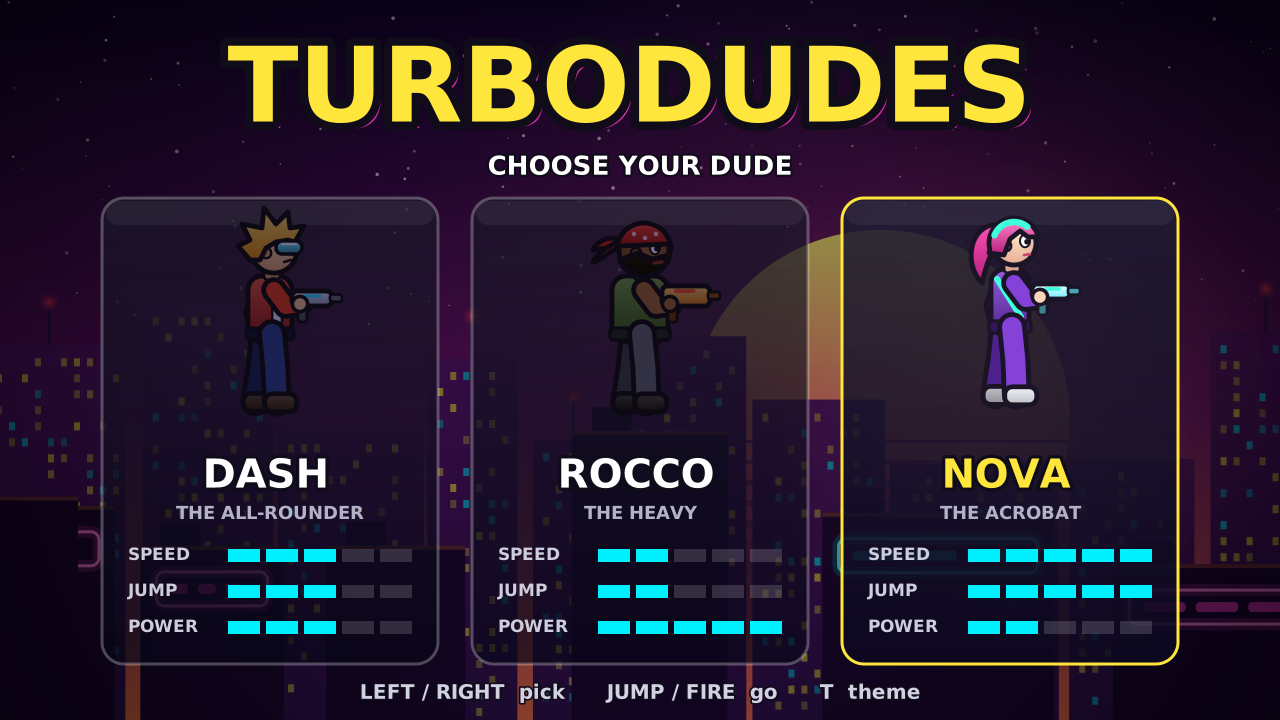
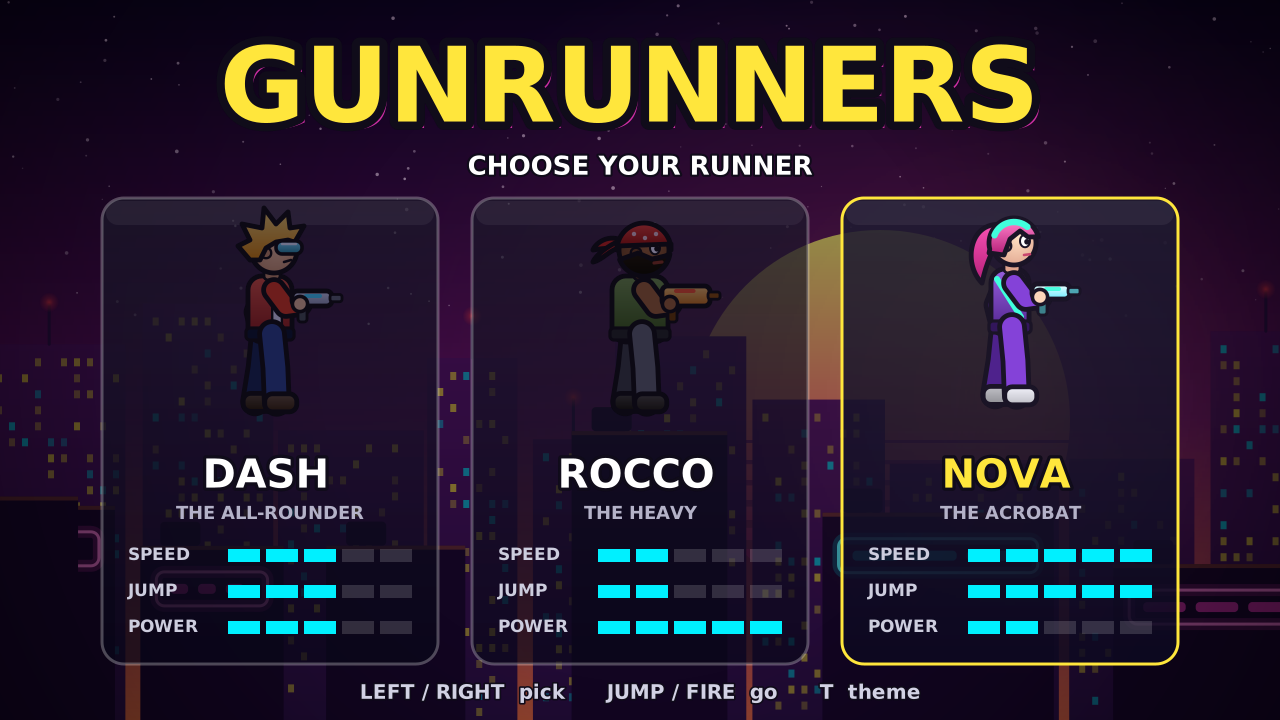
Rename the game from TurboDudes to Gunrunners
Renames the binary, CMake targets, window and title screen, docs and
recording outputs. Themes that punned on the old name become Lost
Temple and Neon City. The repository itself keeps its name.

Claude-Session: https://claude.ai/code/session_01Kgj3ms9kRvjfLWo6NPbeaj

Changed region(s): [[0.1562, 0.0611, 0.8125, 0.1833], [0.3438, 0.2139, 0.6562, 0.2444]]

diff --git a/src/assets/art.cpp b/src/assets/art.cpp
@@ -6,7 +6,7 @@
 #include <cmath>
 #include <vector>
 
-namespace td
+namespace gr
 {
 
 namespace
@@ -588,7 +588,7 @@ Texture bakeSolid(const Renderer& r, const Theme& t, int variant)
       }
       break;
     }
-    case ThemeId::TempleOfTurbo:
+    case ThemeId::LostTemple:
     {
       cairo_rectangle(cr, 0, 0, 64, 64);
       setColor(cr, darken(t.rockDark, 0.2f));
@@ -682,7 +682,7 @@ Texture bakeSolidTop(const Renderer& r, const Theme& t)
       cairo_fill(cr);
       break;
     }
-    case ThemeId::TempleOfTurbo:
+    case ThemeId::LostTemple:
     {
       cairo_move_to(cr, 0, y - 3);
       for (int x = 0; x <= 64; x += 4)
@@ -753,7 +753,7 @@ Texture bakePlatform(const Renderer& r, const Theme& t)
       fillGradientOutline(cr, 1, 15, lighten(t.platform, 0.3f), t.platformDark, darken(t.platformDark, 0.5f), 2.0);
       strokeLimb(cr, {{8, 5}, {56, 5}}, 2.2, rgba(255, 230, 250, 230), kInk, 0.0);
       break;
-    case ThemeId::TempleOfTurbo:
+    case ThemeId::LostTemple:
       roundedRect(cr, 1, 1, 62, 15, 4);
       fillGradientOutline(cr, 1, 16, lighten(t.platform, 0.2f), t.platformDark, darken(t.platformDark, 0.5f), 2.0);
       strokeLimb(cr, {{8, 6}, {28, 7}}, 1.0, withAlpha(t.platformDark, 200), kInk, 0.0);
@@ -883,7 +883,7 @@ Texture bakeSky(const Renderer& r, const Theme& t)
       cairo_paint(cr);
       break;
     }
-    case ThemeId::TempleOfTurbo:
+    case ThemeId::LostTemple:
     {
       radialGlow(cr, 320, 170, 600, rgb(255, 250, 200), 0.6);
       cairo_arc(cr, 320, 170, 70, 0, 2 * kPi);
@@ -1020,7 +1020,7 @@ Texture bakeBackFar(const Renderer& r, const Theme& t)
       }
       break;
     }
-    case ThemeId::TempleOfTurbo:
+    case ThemeId::LostTemple:
     {
       for (int ridge = 0; ridge < 2; ++ridge)
       {
@@ -1135,7 +1135,7 @@ Texture bakeBackNear(const Renderer& r, const Theme& t)
       }
       break;
     }
-    case ThemeId::TempleOfTurbo:
+    case ThemeId::LostTemple:
     {
       double x = 0;
       while (x < kLayerW)
@@ -1255,7 +1255,7 @@ Texture bakeDecoBase(const Renderer& r, const Theme& t)
       cairo_set_line_width(cr, 3);
       cairo_stroke(cr);
       break;
-    case ThemeId::TempleOfTurbo:
+    case ThemeId::LostTemple:
       strokeLimb(cr, {{32, 62}, {32, 30}}, 6, rgb(100, 64, 34), kInk, 1.8);
       cairo_move_to(cr, 20, 26);
       cairo_line_to(cr, 44, 26);
@@ -1289,7 +1289,7 @@ Texture bakeDecoLit(const Renderer& r, const Theme& t)
       strokeLimb(cr, {{17, 20}, {42, 20}}, 3, lighten(t.platform, 0.5f), kInk, 0.0);
       strokeLimb(cr, {{35, 14}, {43, 20}, {35, 26}}, 3, lighten(t.platform, 0.5f), kInk, 0.0);
       break;
-    case ThemeId::TempleOfTurbo:
+    case ThemeId::LostTemple:
       cairo_move_to(cr, 32, 2);
       cairo_curve_to(cr, 44, 14, 42, 26, 32, 28);
       cairo_curve_to(cr, 22, 26, 20, 14, 32, 2);
@@ -1498,7 +1498,7 @@ void drawDecoration(Renderer& r, const Art& art, const Theme& t, float x, float 
       }
       break;
     }
-    case ThemeId::TempleOfTurbo:
+    case ThemeId::LostTemple:
     {
       const float flick = 0.75f + 0.25f * float(hash2(seed, frame / 3) % 100u) / 100.0f;
       lit.alpha = flick;
@@ -1534,4 +1534,4 @@ void drawExit(Renderer& r, const Art& art, const Theme& t, float x, float y, int
   r.drawText("EXIT", x + 32, y - 40, {22.0f, t.accentA, rgb(20, 16, 28)}, Align::Center);
 }
 
-} // namespace td
+} // namespace gr

diff --git a/src/main.cpp b/src/main.cpp
@@ -1,4 +1,4 @@
-// TurboDudes - proof of concept.
+// Gunrunners - proof of concept.
 //
 // Runs either in a GPU-accelerated window (SDL2) or fully headless with SDL's
 // software renderer, in which case every 1280x720 frame can be streamed as
@@ -19,7 +19,7 @@
 #include <string>
 #include <vector>
 
-using namespace td;
+using namespace gr;
 
 namespace
 {
@@ -38,8 +38,8 @@ struct CliOptions
 void printUsage()
 {
   std::puts(
-    "Usage: turbodudes [options]\n"
-    "  --theme N            0 = Neon Overdrive, 1 = Temple of Turbo, 2 = Station Zero\n"
+    "Usage: gunrunners [options]\n"
+    "  --theme N            0 = Neon Overdrive, 1 = Lost Temple, 2 = Station Zero\n"
     "  --character N        0 = Dash, 1 = Rocco, 2 = Nova\n"
     "  --level PATH         level file (default: levels/level1.txt)\n"
     "  --skip-menu          start straight in the level\n"
@@ -67,7 +67,7 @@ std::string defaultLevelPath()
   for (const char* p : {"levels/level1.txt", "../levels/level1.txt"})
     if (fileExists(p))
       return p;
-  return std::string(TD_DATA_DIR) + "/levels/level1.txt";
+  return std::string(GR_DATA_DIR) + "/levels/level1.txt";
 }
 
 bool parseArgs(int argc, char** argv, CliOptions& o)
@@ -223,7 +223,7 @@ int runWindowed(const CliOptions& o)
   }
   SDL_SetHint(SDL_HINT_RENDER_SCALE_QUALITY, "1");
   SDL_Window* window = SDL_CreateWindow(
-    "TurboDudes PoC",
+    "Gunrunners PoC",
     SDL_WINDOWPOS_CENTERED,
     SDL_WINDOWPOS_CENTERED,
     kScreenW,

diff --git a/src/frontend/game.cpp b/src/frontend/game.cpp
@@ -4,7 +4,7 @@
 #include <cmath>
 #include <cstdio>
 
-namespace td
+namespace gr
 {
 
 namespace
@@ -163,9 +163,9 @@ void Game::renderSelect()
 
   const float bounce = std::sin(float(mFrame) * 0.06f) * 5.0f;
   const float cx = float(kScreenW) / 2.0f;
-  r.drawText("TURBODUDES", cx + 7, 22 + bounce + 7, {104.0f, withAlpha(t.platform, 200), 0, true}, Align::Center);
-  r.drawText("TURBODUDES", cx, 22 + bounce, {104.0f, t.accentA, kInk, true}, Align::Center);
-  r.drawText("CHOOSE YOUR DUDE", cx, 150, {26.0f, t.hudText, kInk}, Align::Center);
+  r.drawText("GUNRUNNERS", cx + 7, 22 + bounce + 7, {104.0f, withAlpha(t.platform, 200), 0, true}, Align::Center);
+  r.drawText("GUNRUNNERS", cx, 22 + bounce, {104.0f, t.accentA, kInk, true}, Align::Center);
+  r.drawText("CHOOSE YOUR RUNNER", cx, 150, {26.0f, t.hudText, kInk}, Align::Center);
 
   for (int i = 0; i < kCharacterCount; ++i)
   {
@@ -244,4 +244,4 @@ void Game::renderClear()
   r.drawText(buf, 640, y + 270, {54.0f, t.accentA, kInk, true}, Align::Center, a);
 }
 
-} // namespace td
+} // namespace gr

diff --git a/src/data/theme.cpp b/src/data/theme.cpp
@@ -2,7 +2,7 @@
 
 #include <array>
 
-namespace td
+namespace gr
 {
 
 namespace
@@ -11,7 +11,7 @@ namespace
 const std::array<Theme, 3> kThemes{{
   {ThemeId::NeonOverdrive,
    "NEON OVERDRIVE",
-   "SYNTHWAVE ROOFTOPS OF TURBO CITY",
+   "SYNTHWAVE ROOFTOPS OF NEON CITY",
    rgb(18, 6, 40), rgb(110, 20, 110), rgb(255, 120, 70),
    rgb(42, 30, 78), rgb(70, 54, 120), rgb(24, 16, 46),
    rgb(0, 240, 255), rgb(150, 255, 255),
@@ -21,8 +21,8 @@ const std::array<Theme, 3> kThemes{{
    rgb(52, 20, 80), rgb(30, 10, 50),
    rgb(170, 180, 205), rgb(230, 238, 250), rgb(80, 86, 110), rgb(255, 40, 80),
    rgb(255, 255, 255)},
-  {ThemeId::TempleOfTurbo,
-   "TEMPLE OF TURBO",
+  {ThemeId::LostTemple,
+   "LOST TEMPLE",
    "JUNGLE RUINS FULL OF GOLD AND TRAPS",
    rgb(40, 120, 120), rgb(120, 190, 150), rgb(230, 230, 170),
    rgb(110, 100, 80), rgb(150, 140, 110), rgb(70, 62, 48),
@@ -57,4 +57,4 @@ const Theme& themeByIndex(int index)
   return kThemes[std::size_t(((index % n) + n) % n)];
 }
 
-} // namespace td
+} // namespace gr

diff --git a/src/engine/camera.cpp b/src/engine/camera.cpp
@@ -1,6 +1,6 @@
 #include "engine/camera.hpp"
 
-namespace td
+namespace gr
 {
 
 namespace
@@ -42,15 +42,15 @@ void Camera::update(const Rect& t, int worldW, int worldH)
   else if (t.bottom() > bottom)
     dy = t.bottom() - bottom;
 
-  mX += td::clampTo(dx, -kMaxScrollX, kMaxScrollX);
-  mY += td::clampTo(dy, -kMaxScrollY, kMaxScrollY);
+  mX += gr::clampTo(dx, -kMaxScrollX, kMaxScrollX);
+  mY += gr::clampTo(dy, -kMaxScrollY, kMaxScrollY);
   clampToWorld(worldW, worldH);
 }
 
 void Camera::clampToWorld(int worldW, int worldH)
 {
-  mX = td::clampTo(mX, 0.0f, float(std::max(0, worldW - mViewW)));
-  mY = td::clampTo(mY, 0.0f, float(std::max(0, worldH - mViewH)));
+  mX = gr::clampTo(mX, 0.0f, float(std::max(0, worldW - mViewW)));
+  mY = gr::clampTo(mY, 0.0f, float(std::max(0, worldH - mViewH)));
 }
 
 void Camera::shake(int ticks, float strength)
@@ -76,4 +76,4 @@ void Camera::tick()
 }
 
 
-} // namespace td
+} // namespace gr

diff --git a/src/data/characters.hpp b/src/data/characters.hpp
@@ -1,6 +1,6 @@
 #pragma once
 
-namespace td
+namespace gr
 {
 
 enum class Weapon
@@ -10,7 +10,7 @@ enum class Weapon
   Rapid,   // fast, light shots
 };
 
-// The three selectable TurboDudes. Stats are deliberately readable at a
+// The three selectable Gunrunners. Stats are deliberately readable at a
 // glance on the select screen (1-5 pips).
 struct CharacterDef
 {
@@ -28,4 +28,4 @@ struct CharacterDef
 constexpr int kCharacterCount = 3;
 const CharacterDef& characterByIndex(int index);
 
-} // namespace td
+} // namespace gr

diff --git a/src/assets/art.hpp b/src/assets/art.hpp
@@ -5,7 +5,7 @@
 
 #include <array>
 
-namespace td
+namespace gr
 {
 
 // Game logic runs in "world pixels" (16 per tile, 320x180 view, like the
@@ -79,4 +79,4 @@ void drawExit(Renderer& r, const Art& art, const Theme& theme, float x, float y,
 // Rounded translucent panel for menus and overlays.
 Texture makePanel(const Renderer& r, int w, int h, Color fill, Color border, double radius);
 
-} // namespace td
+} // namespace gr

diff --git a/src/render/vector.hpp b/src/render/vector.hpp
@@ -7,7 +7,7 @@
 #include <initializer_list>
 #include <utility>
 
-namespace td
+namespace gr
 {
 
 // An offscreen Cairo surface used to bake anti-aliased vector art into
@@ -55,4 +55,4 @@ void strokeLimb(
   double outlineWidth);
 void radialGlow(cairo_t* cr, double cx, double cy, double radius, Color c, double alpha);
 
-} // namespace td
+} // namespace gr

diff --git a/src/data/theme.hpp b/src/data/theme.hpp
@@ -2,13 +2,13 @@
 
 #include "render/color.hpp"
 
-namespace td
+namespace gr
 {
 
 enum class ThemeId
 {
   NeonOverdrive = 0,
-  TempleOfTurbo = 1,
+  LostTemple = 1,
   StationZero = 2,
 };
 
@@ -33,4 +33,4 @@ struct Theme
 int themeCount();
 const Theme& themeByIndex(int index);
 
-} // namespace td
+} // namespace gr

diff --git a/src/render/color.cpp b/src/render/color.cpp
@@ -2,7 +2,7 @@
 
 #include <algorithm>
 
-namespace td
+namespace gr
 {
 
 Color lerpColor(Color a, Color b, float t)
@@ -24,4 +24,4 @@ Color scaleColor(Color c, float f)
 
 Color withAlpha(Color c, int a) { return (c & 0x00FFFFFFu) | (Color(a & 255) << 24); }
 
-} // namespace td
+} // namespace gr

diff --git a/src/data/characters.cpp b/src/data/characters.cpp
@@ -2,7 +2,7 @@
 
 #include <array>
 
-namespace td
+namespace gr
 {
 
 namespace
@@ -21,4 +21,4 @@ const CharacterDef& characterByIndex(int index)
   return kCharacters[std::size_t(((index % kCharacterCount) + kCharacterCount) % kCharacterCount)];
 }
 
-} // namespace td
+} // namespace gr

diff --git a/src/render/color.hpp b/src/render/color.hpp
@@ -2,7 +2,7 @@
 
 #include <cstdint>
 
-namespace td
+namespace gr
 {
 
 using Color = std::uint32_t; // 0xAARRGGBB
@@ -22,4 +22,4 @@ Color lerpColor(Color a, Color b, float t);
 Color scaleColor(Color c, float f);
 Color withAlpha(Color c, int a);
 
-} // namespace td
+} // namespace gr
